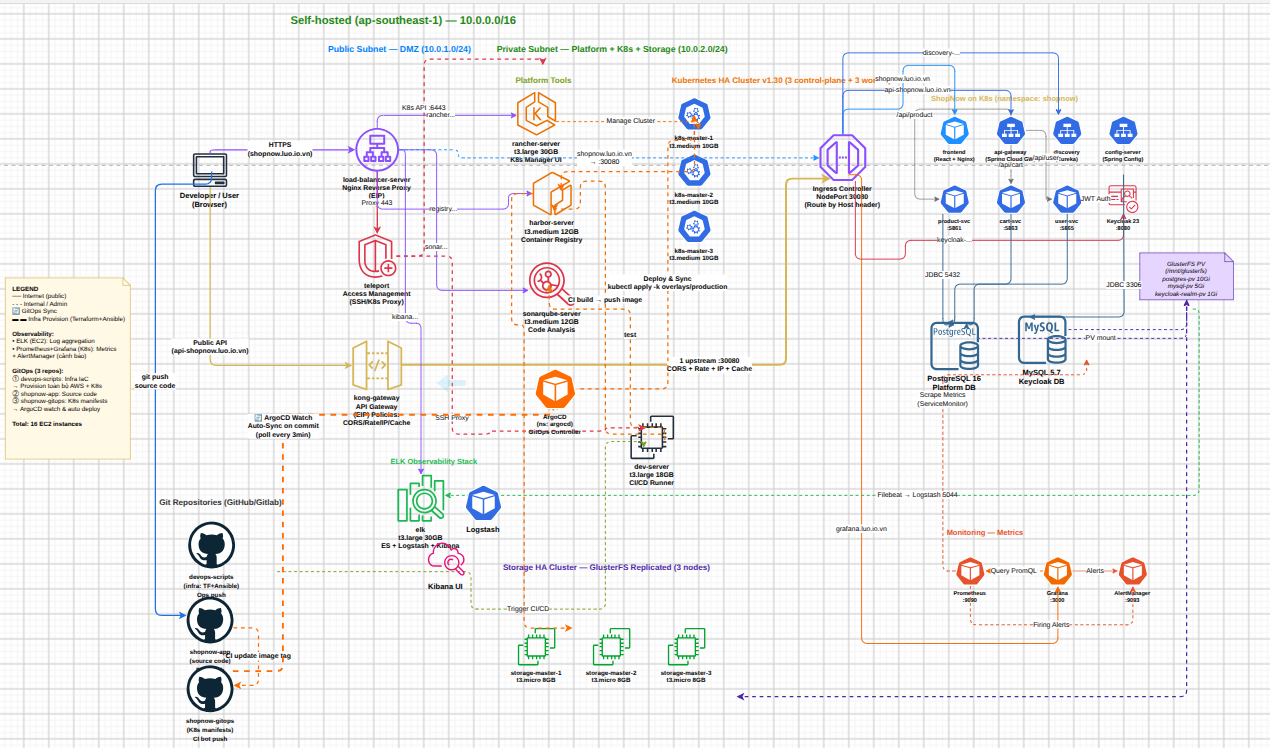
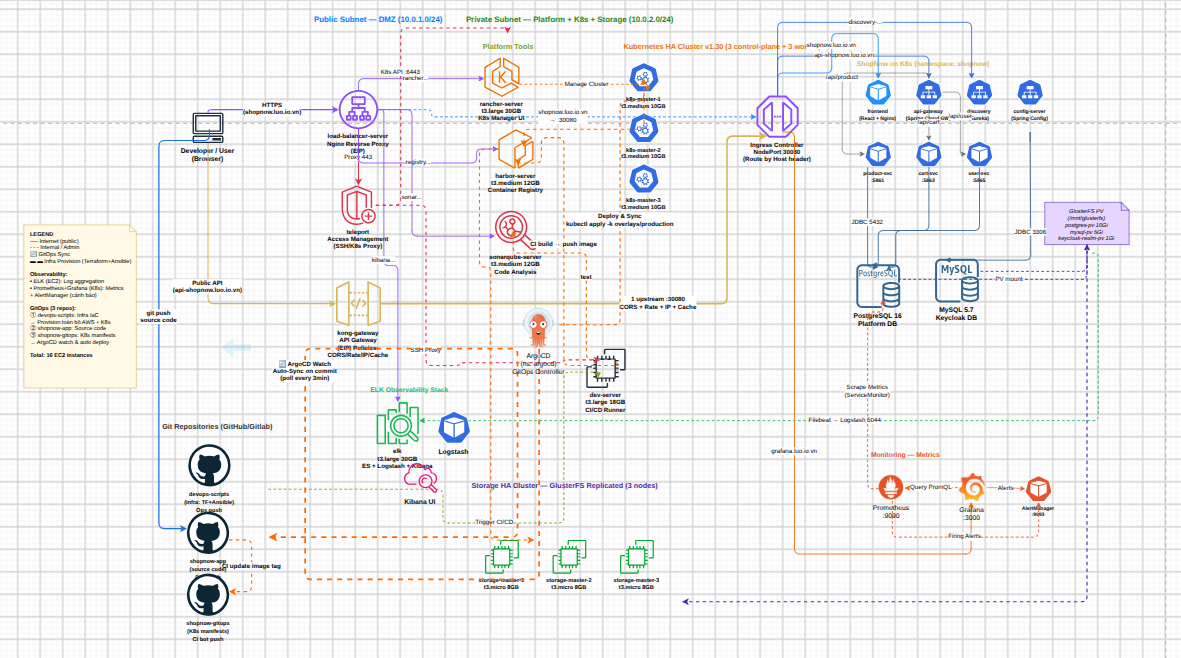
docs: change README with detail image

Changed region(s): [[0.0, 0.0, 1.0, 1.0], [0.945, 0.9422, 0.9754, 0.9726], [0.0305, 0.9422, 0.061, 0.9726]]

diff --git a/README.md b/README.md
@@ -1,12 +1,47 @@
 # DevOps Platform — Infrastructure as Code
 
-Tài liệu giải thích toàn bộ cấu trúc thư mục Terraform & Ansible cho hệ thống **Self-hosted Cloud-Native DevOps Platform** trên AWS (`ap-southeast-1`).
+Tài liệu giải thích toàn bộ cấu trúc Terraform & Ansible cho hệ thống **Self-hosted Cloud-Native DevOps Platform** trên AWS (`ap-southeast-1`).
 
----
+## 🏗 Kiến trúc tổng quan
 
-## Kiến trúc tổng quan (16 EC2 Instances) + GitOps & Monitoring trên K8s
+![DevOps Platform Architecture](assets/image.png)
 
-> **Diagram:** [assets/architecture.drawio](assets/architecture.drawio) — mở bằng [draw.io](https://app.diagrams.net) hoặc VS Code plugin `hediet.vscode-drawio`
+> **Diagram có thể chỉnh sửa:** [assets/architecture.drawio](assets/architecture.drawio) — mở bằng [draw.io](https://app.diagrams.net) hoặc VS Code plugin `hediet.vscode-drawio`
+
+### 🔗 Repositories
+
+| Repo | Mô tả | Link |
+|---|---|---|
+| **devops-scripts** | Infrastructure as Code — Terraform + Ansible provision toàn bộ hạ tầng AWS + bootstrap K8s | *(repo này)* |
+| **shop-app** | Source code ứng dụng ShopNow — Java Spring Boot Microservices + React Frontend | [github.com/Luo-Zhii/shop-app](https://github.com/Luo-Zhii/shop-app) |
+| **shop-gitops** | Kubernetes Manifests (Kustomize) + ArgoCD + Prometheus/Grafana — GitOps auto-deploy | [github.com/Luo-Zhii/shop-gitops](https://github.com/Luo-Zhii/shop-gitops) |
+
+### 📦 Luồng GitOps (3 repos)
+
+```
+Developer push code → shop-app (GitHub)
+                        │ GitLab CI/CD trigger
+                        ▼
+              ┌─────────────────┐
+              │  dev-server     │  GitLab Runner thực thi pipeline
+              │  (CI/CD Runner) │
+              └───┬───────┬─────┘
+                  │       │
+         SAST scan│       │ docker build & push
+                  ▼       ▼
+            SonarQube   Harbor Registry
+                              │
+          ┌───────────────────┘
+          ▼
+   CI job update image tag → shop-gitops (GitHub)
+                                │
+                         ArgoCD Watch (poll 3min)
+                                │
+                         kubectl apply -k overlays/production
+                                │
+                                ▼
+                         Kubernetes Cluster
+```
 
 ```
                             Internet
